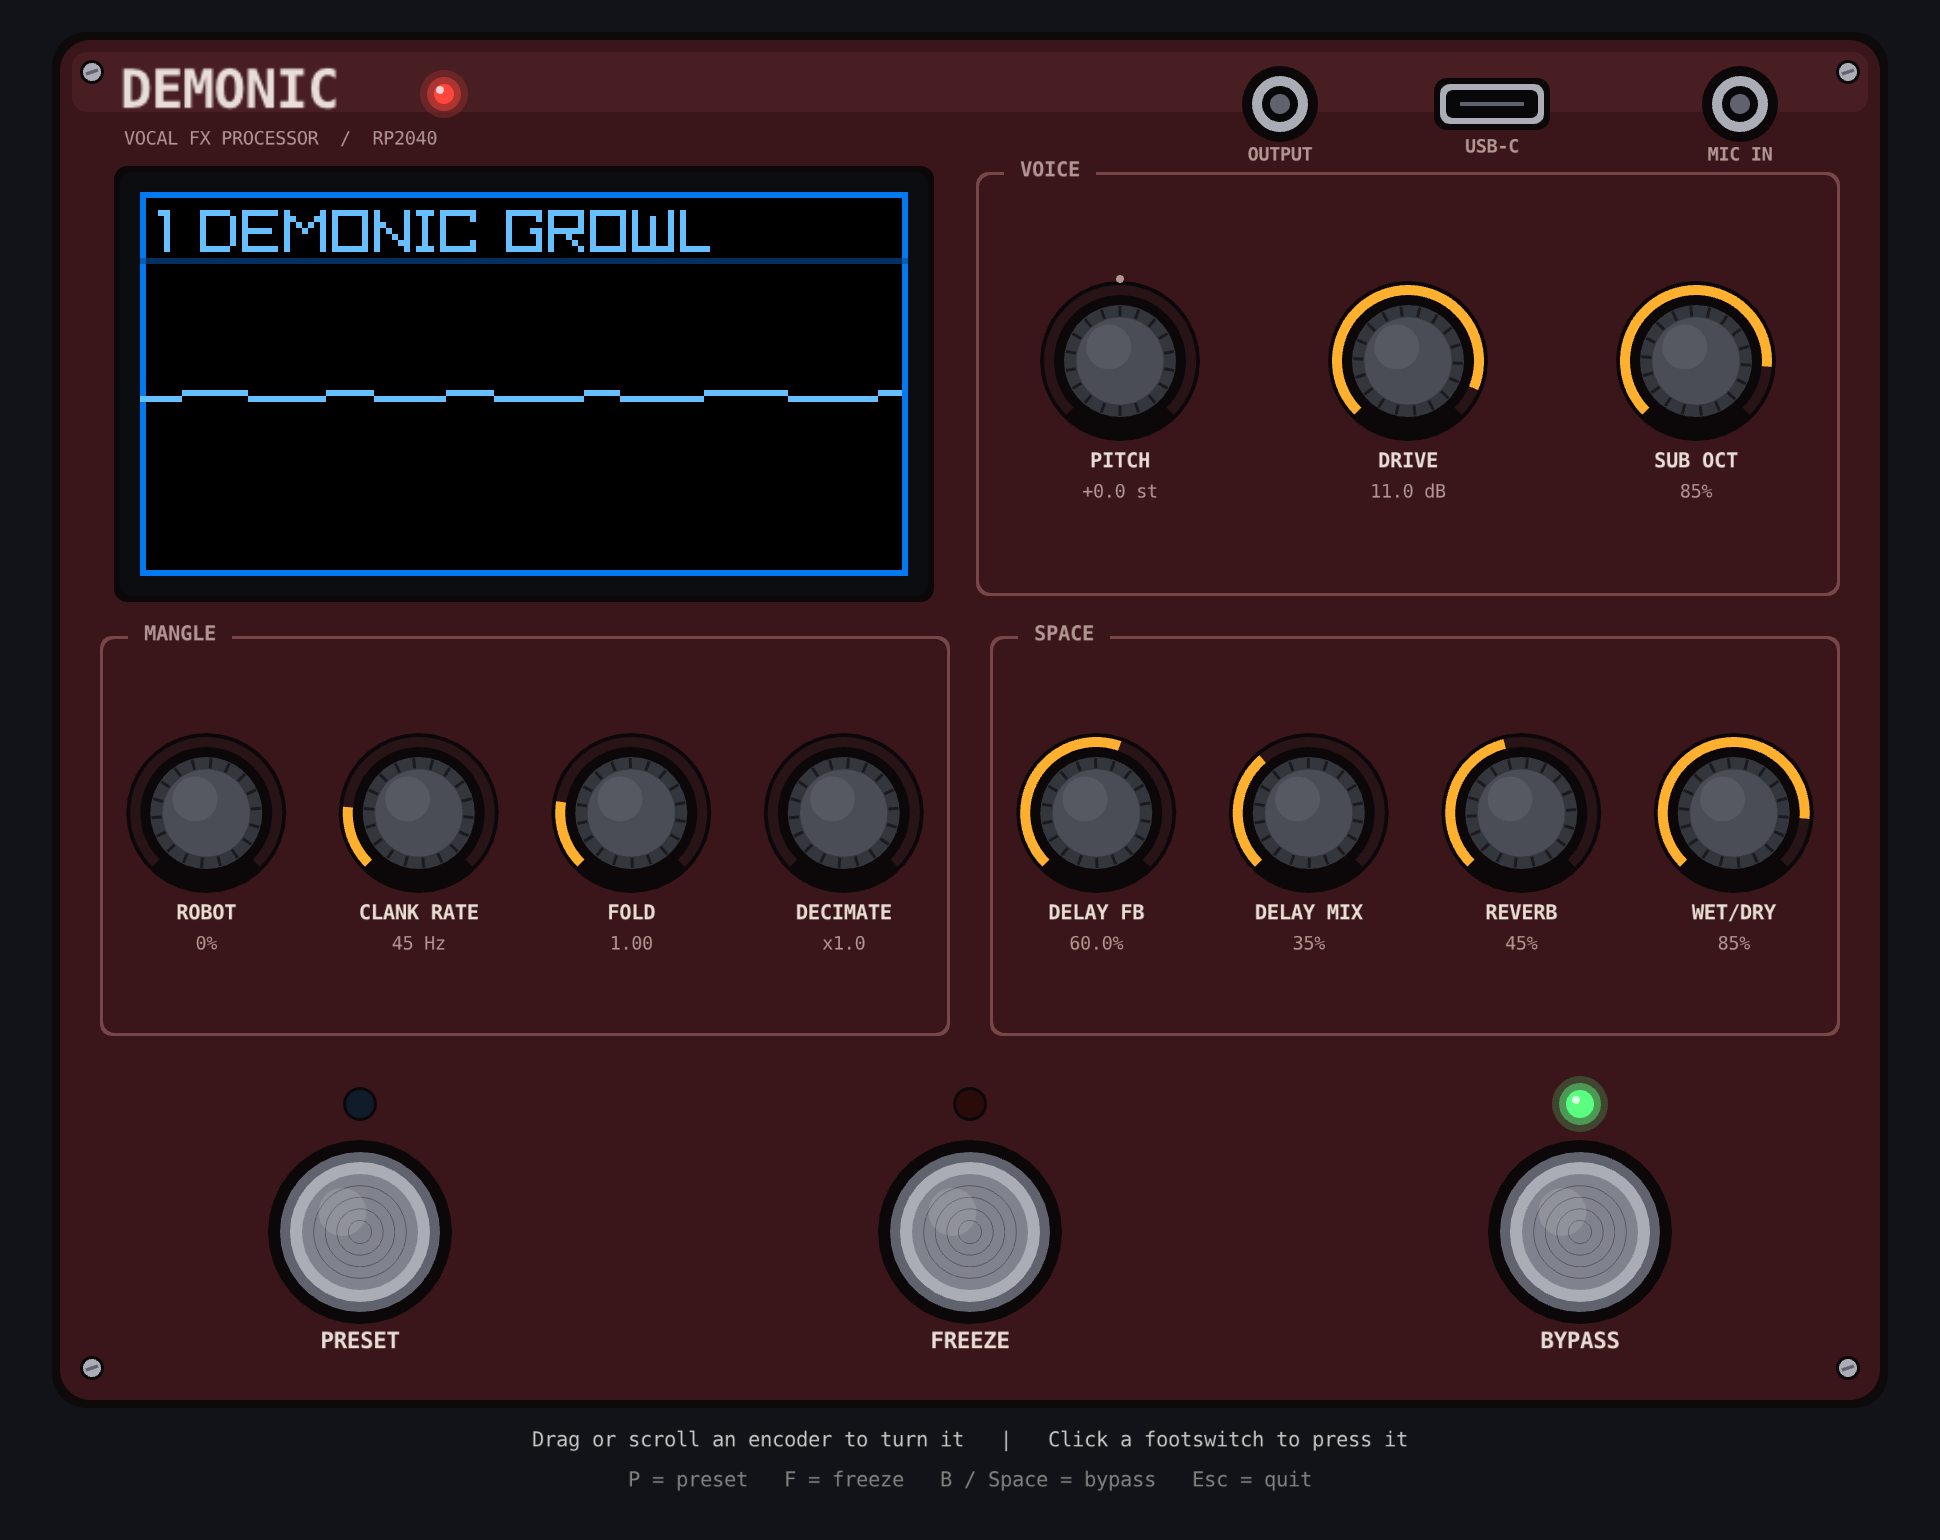
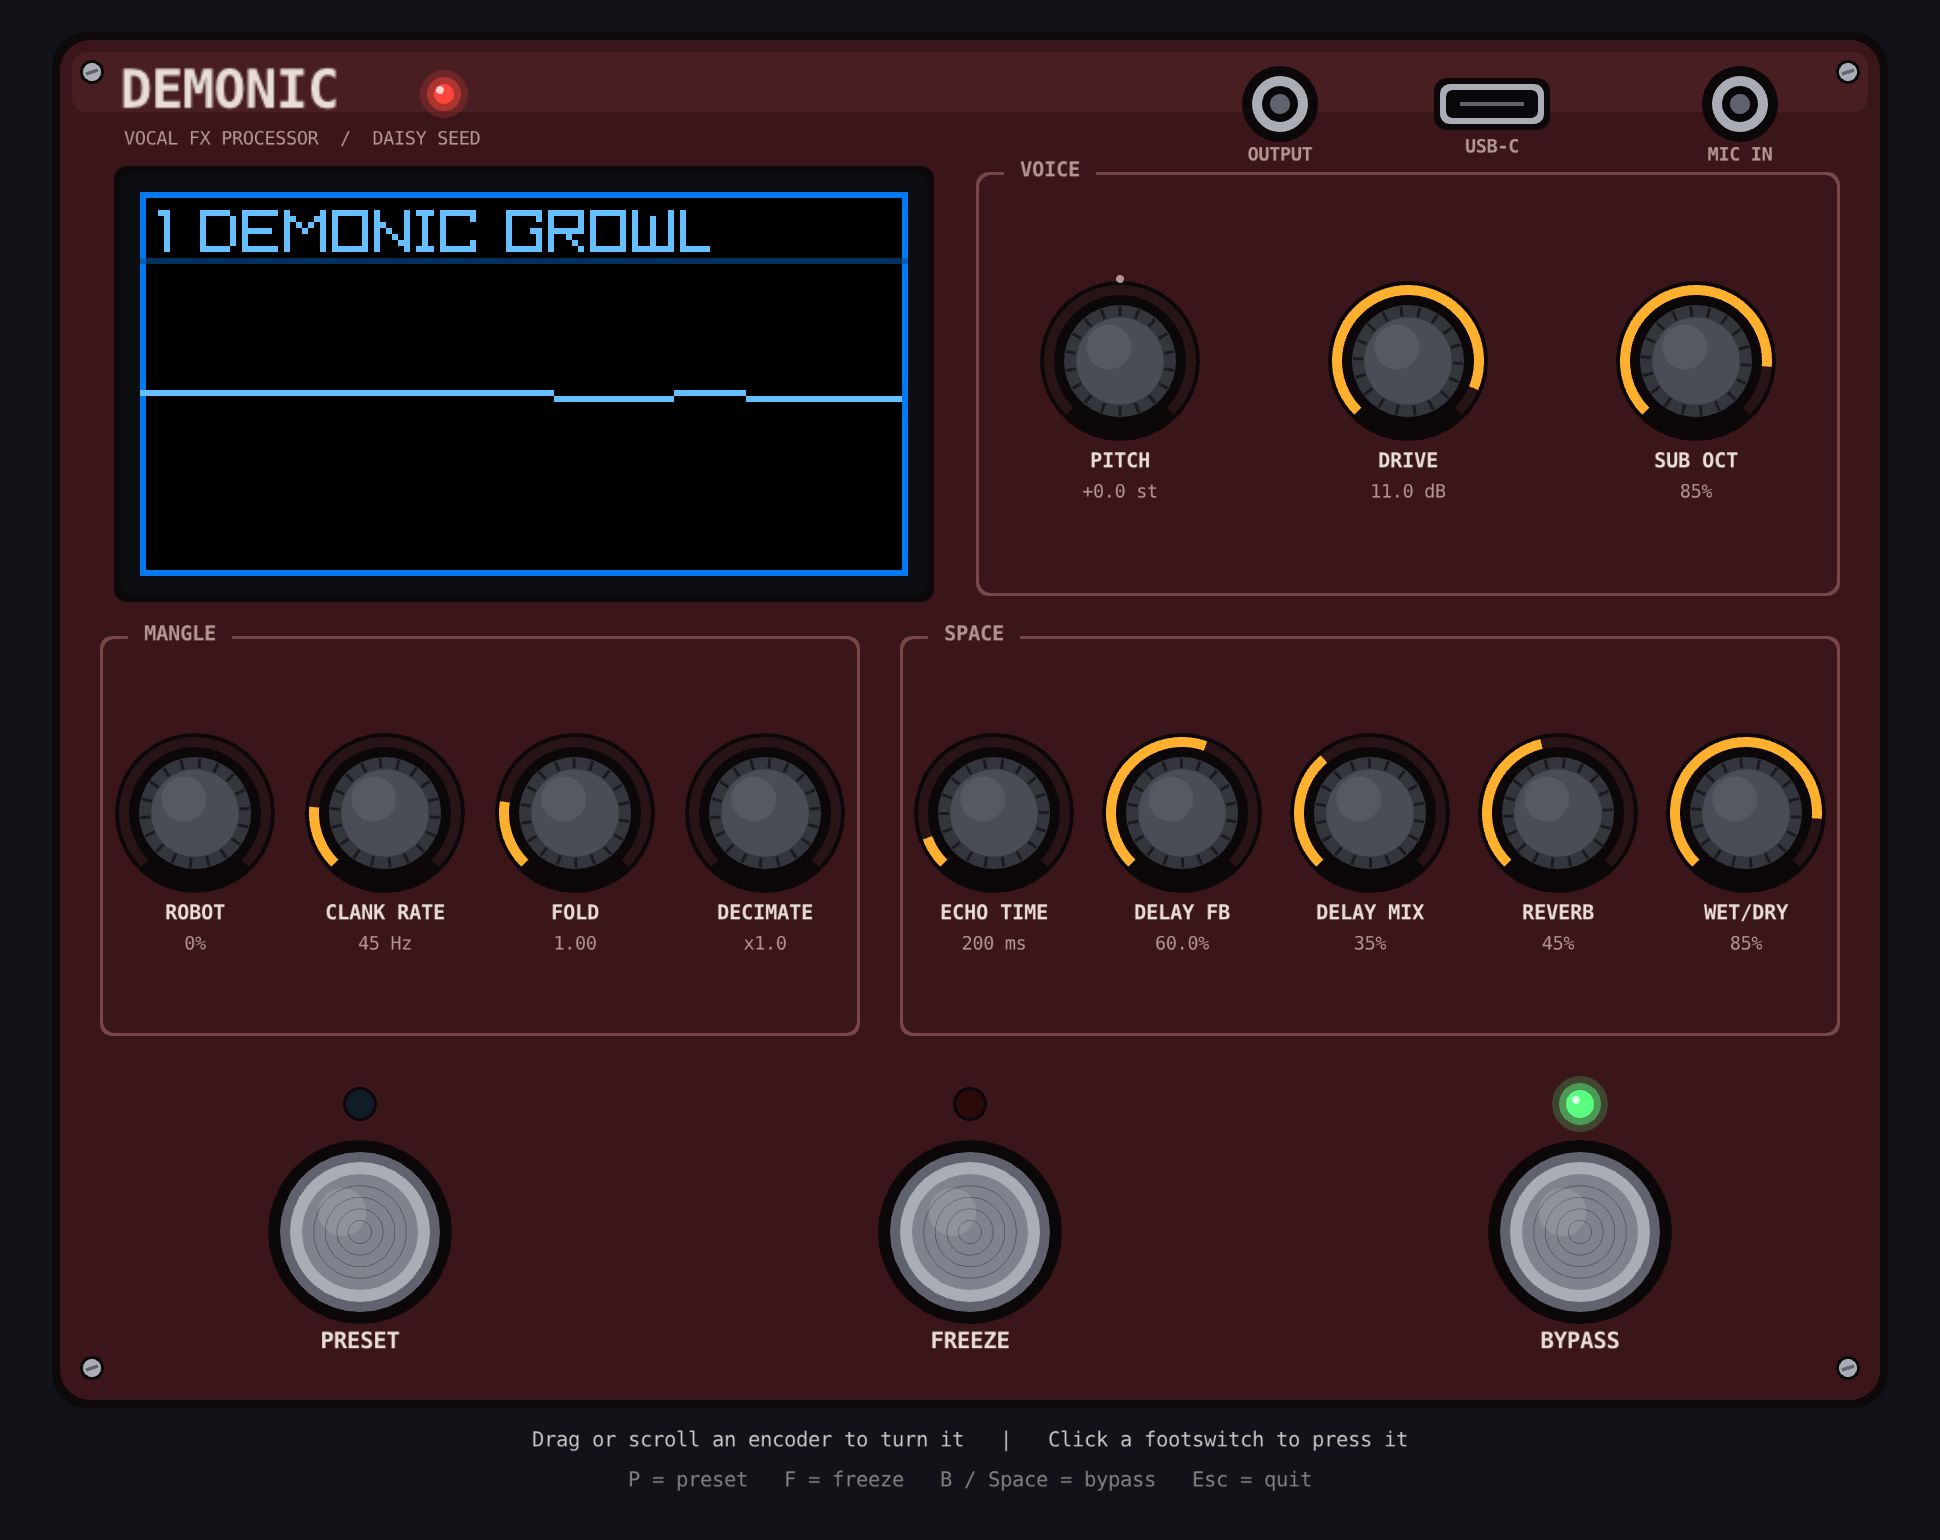
Refresh the simulator screenshot (12 encoders) and add vocal_desktop --screenshot (#16)
vocal_desktop --screenshot file.png renders 60 frames, saves the window with
raylib's TakeScreenshot and quits, so the README image can be regenerated
without Screen Recording permission.

diff --git a/desktop/main_desktop.cpp b/desktop/main_desktop.cpp
@@ -6,6 +6,7 @@
 #include <cmath>
 #include <iostream>
 #include <portaudio.h>
+#include <string>
 #include "raylib.h"
 #include "demonic_engine.hpp"
 #include "sim_controls.hpp"
@@ -274,7 +275,12 @@ void render_oled(RenderTexture2D& canvas, const char* header, bool bypass, bool 
 
 } // namespace
 
-int main() {
+int main(int argc, char** argv) {
+    // `vocal_desktop --screenshot file.png`: run for about a second, save the window as file.png in the
+    // current directory (raylib keeps only the file name), and quit. Used for docs/images/simulator.png.
+    const char* screenshotFile = (argc == 3 && std::string(argv[1]) == "--screenshot") ? argv[2] : nullptr;
+    int frameCount = 0;
+
     guiParam[simctl::P_PITCH].store(0.0f);
     selectPreset(0);                         // encoders start on preset 0 (before audio starts: the callback reads them)
 
@@ -430,6 +436,11 @@ int main() {
         centered_text(help2, L.window_w / 2.0f, L.help_y + 20, 10, GRAY);
 
         EndDrawing();
+
+        if (screenshotFile && ++frameCount == 60) {   // 60 frames: the meters and LEDs have settled
+            TakeScreenshot(screenshotFile);
+            break;
+        }
     }
 
     UnloadRenderTexture(oledCanvas);

diff --git a/docs/DEVELOPER_GUIDE.md b/docs/DEVELOPER_GUIDE.md
@@ -287,12 +287,12 @@ They communicate **only** through a set of global `std::atomic` variables (the "
 
 ### 4.2 What happens in one audio block
 
-Every ~1.45 ms, PortAudio calls `audioCallback` (`main_desktop.cpp:44`), which:
+Every ~1.45 ms, PortAudio calls `audioCallback` (`main_desktop.cpp:45`), which:
 
-1. Checks whether the preset changed; if so, calls `demonic.loadPreset(...)` (lines 53–58). This updates the preset index the engine reports and the preset fields that have no encoder (harmony); the other values arrive through the encoder atomics in the next step (section 5.4).
-2. Copies every encoder value from the atomics into the engine via setters (lines 60–73). `setBypass` goes first, so that Freeze is refused in the same block if bypass has just been switched on.
-3. Measures the input peak for the level meter and calls `demonic.processBlock(in, out, 64)` (lines 75–80).
-4. Copies the output into the oscilloscope ring buffer (lines 82–87) and publishes the mic peak (line 92).
+1. Checks whether the preset changed; if so, calls `demonic.loadPreset(...)` (lines 54–59). This updates the preset index the engine reports and the preset fields that have no encoder (harmony); the other values arrive through the encoder atomics in the next step (section 5.4).
+2. Copies every encoder value from the atomics into the engine via setters (lines 61–74). `setBypass` goes first, so that Freeze is refused in the same block if bypass has just been switched on.
+3. Measures the input peak for the level meter and calls `demonic.processBlock(in, out, 64)` (lines 76–81).
+4. Copies the output into the oscilloscope ring buffer (lines 83–88) and publishes the mic peak (line 93).
 5. Returns `paContinue` ("keep going").
 
 ### 4.3 Design decisions worth knowing
@@ -300,7 +300,7 @@ Every ~1.45 ms, PortAudio calls `audioCallback` (`main_desktop.cpp:44`), which:
 - **The engine knows nothing about PortAudio or raylib.** `DemonicEngine` takes in a float array and fills a float array. That is why it can be tested headlessly (section 9) and is the part meant to be reused on the Daisy Seed.
 - **Everything is allocated up front.** No `new`, no `malloc`, no `std::vector` growth in the audio path — required for real-time safety and for microcontrollers.
 - **Control values are copied in once per block**, not per sample. Cheap, but it means parameter changes are "steppy" (see section 10.10).
-- **The engine is a single global object** (`DemonicEngine demonic(SAMPLE_RATE, engineMemory);`, `main_desktop.cpp:23`), with its long buffers in another global, `engineMemory` (line 22). Both threads can see it, but by convention only the audio thread touches its state. The UI thread only calls `getPreset()` and `getPresetCount()`, which read data that never changes after construction.
+- **The engine is a single global object** (`DemonicEngine demonic(SAMPLE_RATE, engineMemory);`, `main_desktop.cpp:24`), with its long buffers in another global, `engineMemory` (line 23). Both threads can see it, but by convention only the audio thread touches its state. The UI thread only calls `getPreset()` and `getPresetCount()`, which read data that never changes after construction.
 - **Memory footprint:** `DemonicEngine` is about **410 KB**, almost all of it the ReverbSc reverb (~396 KB) plus the pitch and chorus buffers (8 KB each). `DemonicEngineMemory` adds about **576 KB**: the 2 s echo and the 1 s freeze loop. They are separate so the Daisy Seed can keep the engine in fast SRAM and the long buffers in SDRAM (section 11).
 
 ---
@@ -315,7 +315,7 @@ The app is split the way the Phase Box simulator is: pure logic in headers with 
 | `include/sim_layout.hpp` | `simlayout::Layout::make()`: where the enclosure, OLED, group panels, encoders, footswitches, LEDs and jacks are. Hit-testing and overlap helpers, `clicks_from_wheel`, and `KnobDrag` (turning a knob with the mouse: drag round the ring, or up/down from the centre). |
 | `include/sim_font.hpp` | DejaVu Sans Mono, embedded so text looks the same on every machine. |
 
-### 5.1 Globals (lines 22–33)
+### 5.1 Globals (lines 23–34)
 
 ```cpp
 DemonicEngineMemory engineMemory;                  // the engine's long buffers (~576 KB)
@@ -334,9 +334,9 @@ std::atomic<size_t> scopeHead(0);
 
 One atomic per encoder, in an array indexed by `simctl::Param` (`guiParam[simctl::P_DRIVE]` and so on), so the drawing and input code can loop over all twelve. `main()` sets them from preset 0 (pitch 0) before audio starts. The **scope buffer** is a 128-sample circular buffer the audio thread fills with output samples; the UI reads it to draw the waveform. `scopeHead` is how many samples have been written so far (it grows without bound; reads wrap it with `% SCOPE_SIZE`).
 
-**`selectPreset(idx)`** (line 37) runs on the UI thread: it copies the preset's values into the encoder atomics (pitch is not part of a preset and keeps its value), then stores the new index. Values first, index second, so the callback never sees the new preset with the old values.
+**`selectPreset(idx)`** (line 38) runs on the UI thread: it copies the preset's values into the encoder atomics (pitch is not part of a preset and keeps its value), then stores the new index. Values first, index second, so the callback never sees the new preset with the old values.
 
-### 5.2 The audio callback (lines 44–94)
+### 5.2 The audio callback (lines 45–95)
 
 The signature is dictated by PortAudio; you cannot change it. The parts you care about are `inputBuffer`, `outputBuffer`, and `framesPerBuffer`. The first thing it does is cast the generic `void*` buffers to `float*` (since the stream was opened with `paFloat32`):
 
@@ -347,7 +347,9 @@ float* out = static_cast<float*>(outputBuffer);
 
 The preset check uses a `static` local, `lastPreset`, which persists across calls so the callback can detect a *change*. Then every parameter is pushed into the engine, then the block is processed.
 
-### 5.3 `main()` setup (lines 277–311)
+### 5.3 `main()` setup (lines 278–317)
+
+`vocal_desktop --screenshot file.png` runs the app for 60 frames (about a second), saves the window as `file.png` in the current directory, and quits; `docs/images/simulator.png` is made this way (`cd docs/images && ../../build/vocal_desktop --screenshot simulator.png`). Otherwise there are no command-line options. Setup:
 
 1. Pitch to 0 and `selectPreset(0)`, so the encoders hold preset 0's values before the callback first reads them.
 2. `Pa_Initialize()` starts PortAudio.
@@ -358,18 +360,18 @@ The preset check uses a `static` local, `lastPreset`, which persists across call
 
 Error handling is by return code, not exceptions: functions return `paNoError` on success and `main` prints and exits otherwise.
 
-### 5.4 The UI loop (lines 313–433)
+### 5.4 The UI loop (lines 319–444)
 
 Each frame:
 
 1. **Keys:** `P` calls `selectPreset` with the next index; `F` toggles `guiSpectralFreeze` (ignored while bypassed); `B` or `Space` toggles `guiBypass` (and clears `guiSpectralFreeze` when switching bypass on). The footswitches call the same lambdas.
 2. **Mouse:** a press on an encoder starts a `KnobDrag`; while the button is held, the degrees turned move a 0..1 ring position (`drag_pos`) by `degrees / 270`, and `simctl::from_norm` turns that into the value stored in `guiParam`. Keeping `drag_pos` separately means PITCH's snap-to-zero does not trap the knob at 0. Scrolling over an encoder turns it by whole clicks (`simctl::step`, which lands on multiples of the step and stops at the ends). A press on a footswitch acts immediately.
-3. **OLED** (`render_oled`, line 250), drawn at its real 128×64 resolution into the off-screen texture: border, a header (preset number and name, or for 1.5 s after an encoder moves, that encoder's name and value), `BYPASS` or `FREEZE` under the header when active, the waveform (127 line segments between consecutive `scopeBuffer` samples, clamped to the display; grey while bypassed, red while frozen), and the mic-level bar.
+3. **OLED** (`render_oled`, line 251), drawn at its real 128×64 resolution into the off-screen texture: border, a header (preset number and name, or for 1.5 s after an encoder moves, that encoder's name and value), `BYPASS` or `FREEZE` under the header when active, the waveform (127 line segments between consecutive `scopeBuffer` samples, clamped to the display; grey while bypassed, red while frozen), and the mic-level bar.
 4. **The pedal:** enclosure with screws and title, jacks and USB port (decorative), the OLED texture scaled 3× with its bezel, the three group panels, each encoder (`draw_encoder`: LED ring with the lit arc from `simctl::origin_degrees` to `simctl::degrees`, red past `warn_above`; a knurled cap that turns with the value; label and value under it), then the footswitch LEDs (preset flash, freeze red, bypass green while effects are on) and footswitches.
 
 This style is called **immediate-mode UI**: there are no button or knob objects. Every frame the code asks "is the mouse over this circle and pressed?", acts on the answer, and draws it. Only the geometry (`Layout`) and value logic (`simctl`) live outside the loop, which is what lets the tests check them without a window.
 
-### 5.5 Shutdown (lines 435–442)
+### 5.5 Shutdown (lines 446–453)
 
 Unload the texture and fonts, close the window, stop and close the audio stream, terminate PortAudio.
 

diff --git a/.agents/skills/vocal-fx-processor/SKILL.md b/.agents/skills/vocal-fx-processor/SKILL.md
@@ -32,7 +32,9 @@ Real-time "demonic" vocal effects engine in C++17. The chain is a noise gate, a 
 # Requires: brew install cmake portaudio pkg-config  (raylib 5.0 is downloaded on first configure)
 .agents/skills/vocal-fx-processor/scripts/build_desktop.sh
 ./build/vocal_desktop
+(cd docs/images && ../../build/vocal_desktop --screenshot simulator.png)   # refresh the README screenshot (60 frames, then quits)
 ```
+Redo the screenshot whenever the panel changes. `screencapture` cannot capture the window from an agent session (no Screen Recording permission); `--screenshot` uses raylib's `TakeScreenshot` instead.
 
 ### 2. Headless DSP Tests (no audio hardware)
 ```bash
